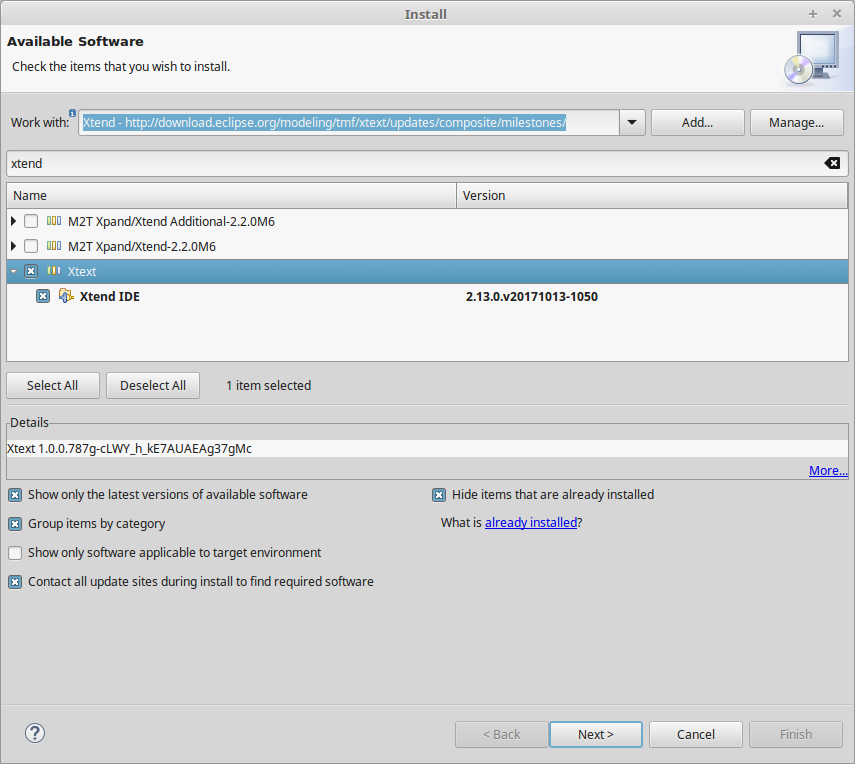
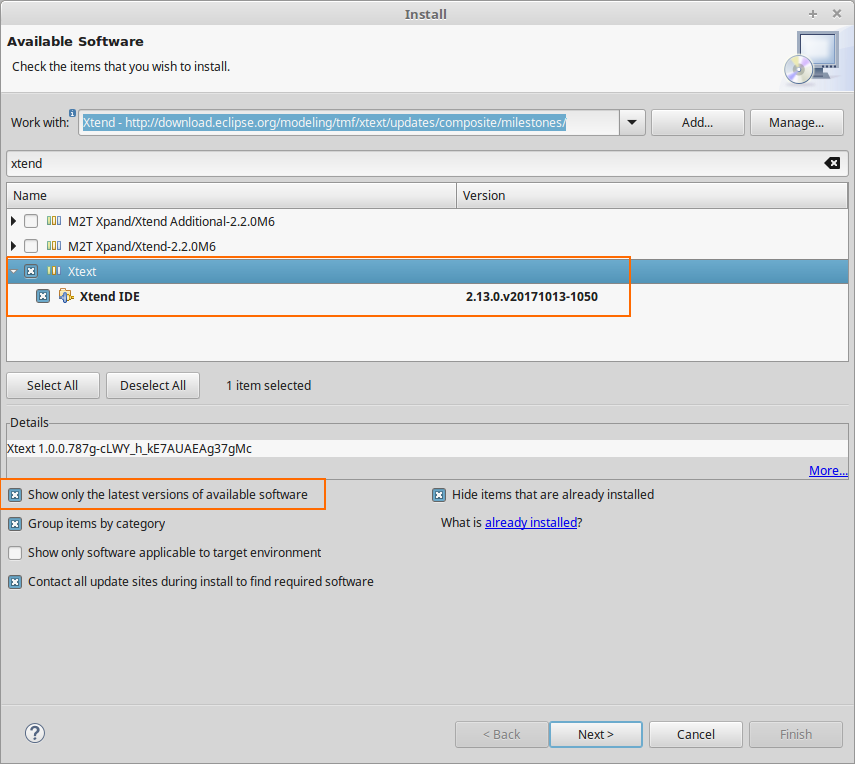
Upgrading image and enhancing Xtend installation

Changed region(s): [[0.0, 0.3914, 0.0304, 0.4215], [0.0, 0.3312, 0.0304, 0.3613]]

diff --git a/wiki/articles/preparacion-de-un-entorno-de-desarrollo-xtend.md b/wiki/articles/preparacion-de-un-entorno-de-desarrollo-xtend.md
@@ -11,7 +11,7 @@ featured: true
 
 ## JDK
 
-Descargar la última versión de la JDK 1.8 desde [esta dirección](http://www.oracle.com/technetwork/java/javase/downloads/index.html). 
+Descargá la última versión de la JDK 1.8 desde [esta dirección](http://www.oracle.com/technetwork/java/javase/downloads/index.html). 
 
 > Asegurate de bajar una JDK que viene con el compilador. La versión debe ser Java 1.8 (todavía no tenemos un entorno estable para Java 1.9)
 
@@ -21,15 +21,15 @@ Ingresá a [esta dirección](https://www.eclipse.org/oxygen/) y descargá el Ecl
 
 ## Maven
 
-Sigan los pasos de instalación de [esta página](http://localhost:4000/wiki/articles/guia-de-instalacion-de-maven.html)
+Seguí los pasos de instalación de [esta página](http://localhost:4000/wiki/articles/guia-de-instalacion-de-maven.html)
 
 ## Plugin Xtend 
 
-Instalaremos el plugin de Xtend desde el Update Site, siguiendo estos pasos:
+Instalá el plugin de Xtend desde el Update Site, siguiendo estos pasos:
 
 - En el menú de Eclipse, Help &gt; Install New Software ... botón Add
 - En la ventana de diálogo Add Repository, en el nombre escribir algo como "Xtend Plugin" y en Location anotar http://download.eclipse.org/modeling/tmf/xtext/updates/composite/milestones/
-- A partir del 2018 se estará usando la versión 2.13.0 que es la última, en caso de que vayan saliendo nuevas versiones, se puede elegir qué versión instalar destildando la opción "Show only the latest versions of available software"
+- A partir del 2018 se estará usando la versión 2.13.0 que es la última, en caso de que vayan saliendo nuevas versiones, se puede elegir qué versión instalar destildando la opción "Show only the latest versions of available software" (más abajo está resaltado en la imagen)
 - Seleccionar el check Xtend IDE, hacer click en Next y luego en Finish
 
 <img src="/img/wiki/Xtend-installation.png" height="60%" width="60%">
